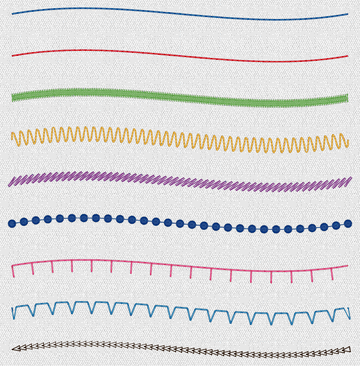
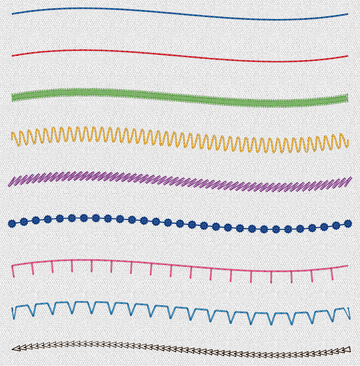
Kit: line-sew-types regenerated for the candlewick knot's points (#1236)
Its candlewick row is Size 2.0: 12 points per knot, 3123 stitches (3443).

Changed region(s): [[0.3972, 0.6011, 0.9778, 0.6311], [0.1222, 0.571, 0.3667, 0.6011], [0.0306, 0.6011, 0.0917, 0.6311]]

diff --git a/examples/sew/README.md b/examples/sew/README.md
@@ -489,7 +489,7 @@ Every line sew type.
 
 #### Line sew types
 
-[`lines/line-sew-types.pes`](lines/line-sew-types.pes) · 100 × 100 mm hoop · 86 × 87.5 mm · 3,443 stitches · 9 trims · about 4.8 min
+[`lines/line-sew-types.pes`](lines/line-sew-types.pes) · 100 × 100 mm hoop · 86 × 87.5 mm · 3,123 stitches · 9 trims · about 4.4 min
 
 Top to bottom: running, triple, zigzag, motif (wave), stem, candlewick, E stitch, V stitch, chain.
 
